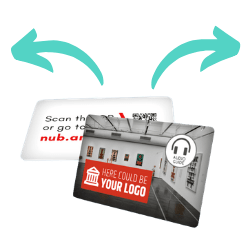
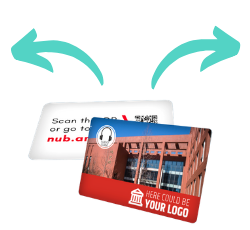
campus

diff --git a/on-site-campus-tours-guide.html b/on-site-campus-tours-guide.html
@@ -2,7 +2,6 @@
 <html lang="en" prefix="og: http://ogp.me/ns#">
 <head>
     <meta charset="utf-8">
-    <meta name="robots" content="noindex">
     <meta http-equiv="X-UA-Compatible" content="IE=edge">
     <meta name="viewport" content="width=device-width, initial-scale=1">
 
@@ -309,7 +308,7 @@ Visitors will keep a memorable souvenir of their campus-visit.
 
 
                     <!-- 16:9 aspect ratio -->
-                    <img src="img/how-nubart-works-trans.png"
+                    <img src="img/campus-how-nubart-works.png"
                          alt="How does Nubart work"
                          class="img-responsive">
 
@@ -323,7 +322,7 @@ Visitors will keep a memorable souvenir of their campus-visit.
 
                     <!-- 16:9 aspect ratio -->
                     <a href="https://www.nub.art/nubart/composite/f438967abb/main"
-                       target="_blank" rel="nofollow"> <img src="img/demo-nubart-campus.png"
+                       target="_blank" rel="nofollow"> <img src="img/campus-demo-nubart.png"
                                                             alt="Demo of a Nubart campus guide"
                                                             class="img-responsive"></a>
 
@@ -372,7 +371,7 @@ Visitors will keep a memorable souvenir of their campus-visit.
         </div>
 
         <div class="row">
-            <div class="col-md-5 col-sm-5">
+            <div class="col-md-4 col-sm-4">
                 <div class="services style1">
 
                     <img src="img/campus-icon-group-guiding.png" alt="img">
@@ -380,13 +379,14 @@ Visitors will keep a memorable souvenir of their campus-visit.
                     <p>Covid-proof tour guiding system, by keeping safety distance</p>
                 </div>
             </div>
-            <div class="col-md-2 col-sm-2">
+            <div class="col-md-4 col-sm-4">
                 <div class="services style1">
+                    <br><br>
                     <img src="img/campus-card-mini.png" alt="img" class="img-responsive center-block">
                     <h3>and / or</h3>
                 </div>
             </div>
-            <div class="col-md-5 col-sm-5">
+            <div class="col-md-4 col-sm-4">
                 <div class="services style1">
                     <img src="img/campus-icon-self-guided.png" alt="img">
                     <h3>SELF-GUIDED VISIT</h3>
@@ -399,23 +399,23 @@ Visitors will keep a memorable souvenir of their campus-visit.
         <div class="row">
             <div class="col-md-4 col-sm-4">
                 <div class="services style1">
-                    <img src="img/icon1.png" alt="img">
+                    <i class="fas fa-user-lock"></i>
                     <h4>Control your message</h4>
-                    <p>Monitor the explanations of your volunteer-guides to your campus-visitors, in real time. Decide exactly with which audio content shall should appear in the prerecorded audio guide.</p>
+                    <p>Monitor the explanations your volunteer guides provide to your visitors, in real time. Make sure that only correct information is transmitted.</p>
                 </div>
             </div>
             <div class="col-md-4 col-sm-4">
                 <div class="services style1">
-                    <img src="img/icon2.png" alt="img">
-                    <h4>Provide multilingual explanations</h4>
-                    <p>With our prerecorded audioguide you can explain your share information about your campus in more than 26 languages. Make making sure your international students understand your message!</p>
+                    <i class="fas fa-language"></i>
+                    <h4>Multilingual explanations</h4>
+                    <p>With our prerecorded audioguide you can share information about your campus in more than 26 languages. Make sure your international students understand your message!</p>
                 </div>
             </div>
             <div class="col-md-4 col-sm-4">
                 <div class="services style1">
-                    <img src="img/icon3.png" alt="img">
+                    <i class="fas fa-bookmark"></i>
                     <h4>Make your visit memorable</h4>
-                    <p>Your visitors will keep the untransferable card and keep continue listening in on their way home. This will let your message sink in and set you apart from competing colleges.</p>
+                    <p>Your visitors will keep the non-transferable card and continue to listen on their way home. This will let your message sink in and set you apart from competing institutions.</p>
                 </div>
             </div>
         </div><!-- ./row -->
@@ -437,12 +437,12 @@ Visitors will keep a memorable souvenir of their campus-visit.
 
                 <div class="col-md-5">
 
-                    <img src="img/asian-girl.jpg" class="img-responsive" alt="">
+                    <img src="img/campus-asian-girl.jpg" class="img-responsive" alt="">
 
                 </div>
                 <div class="col-md-7">
 
-                    <br><br>
+
                     <p class="lead">A campus tour is often the blind date of the admissions process. </p>
                     <p class="lead">Not every volunteer student guide has the skills to market the school effectively or
                         to answer sensitive questions.</p>
